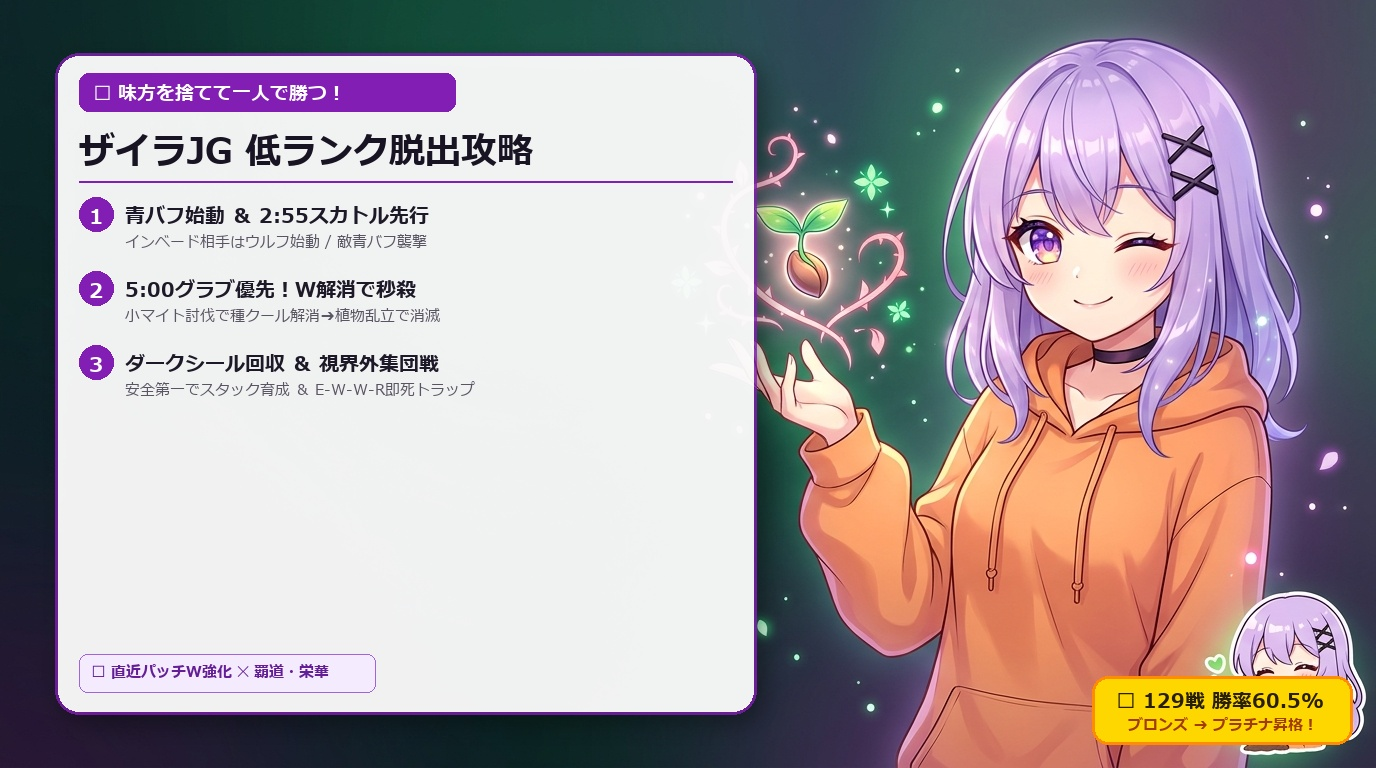
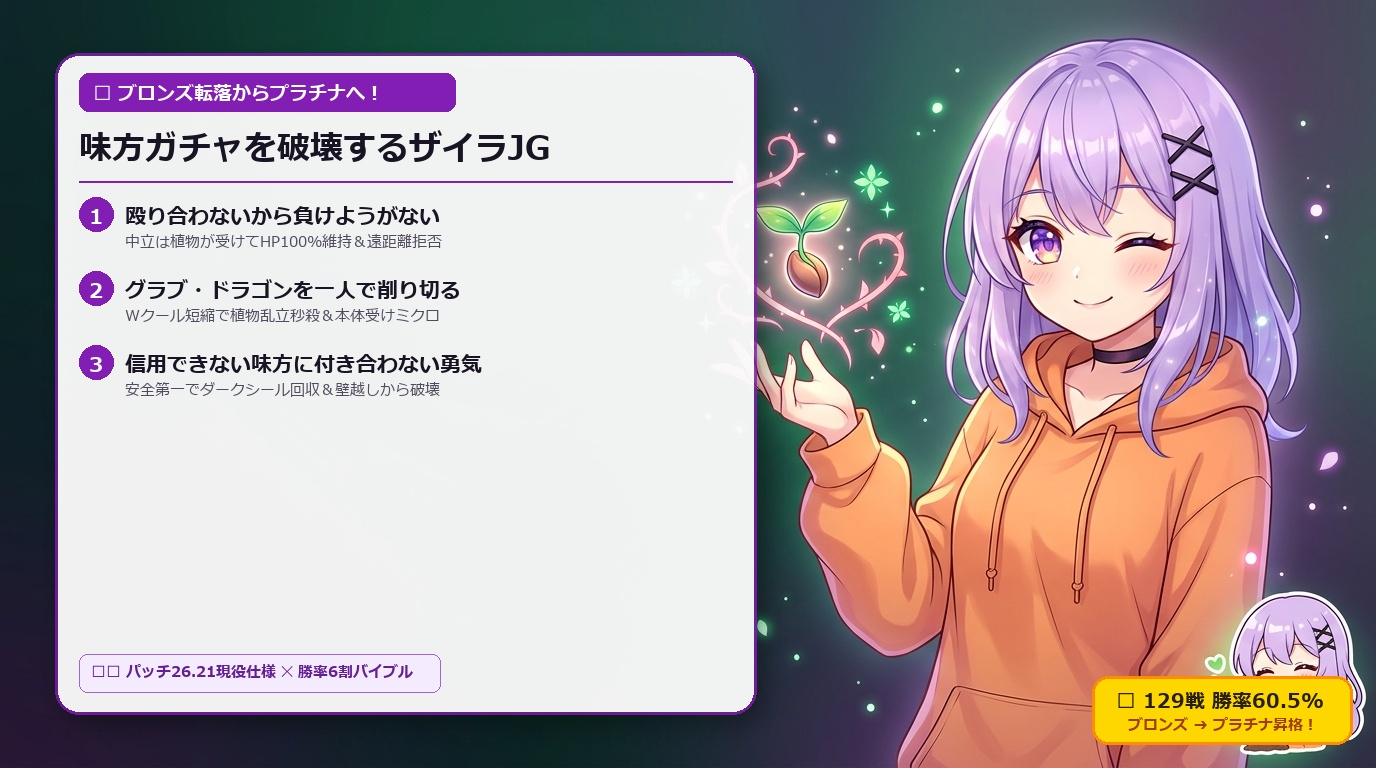
docs(note): ザイラJGサムネイルのテキストを案B（味方ガチャ破壊型）へ刷新

Changed region(s): [[0.0938, 0.25, 0.3438, 0.5312], [0.0625, 0.0938, 0.4062, 0.2188], [0.0625, 0.8438, 0.3125, 0.9062]]

diff --git a/02_FACTORY/01_DRAFTS/note/assets/compose_cute_thumbnails.py b/02_FACTORY/01_DRAFTS/note/assets/compose_cute_thumbnails.py
@@ -43,29 +43,32 @@ def build_zyra():
 
     # リボン
     draw.rounded_rectangle([card_x0+24, card_y0+20, card_x0+400, card_y0+58], radius=10, fill=(130, 30, 180, 245))
-    draw.text((card_x0+38, card_y0+26), "🌿 味方を捨てて一人で勝つ！", font=f_ribbon, fill=(255, 255, 255, 255))
+    draw.text((card_x0+38, card_y0+26), "✨ ブロンズ転落からプラチナへ！", font=f_ribbon, fill=(255, 255, 255, 255))
 
     # タイトル
-    draw.text((card_x0+24, card_y0+72), "ザイラJG 低ランク脱出攻略", font=f_title, fill=(25, 20, 35, 255))
+    f_title_b = ImageFont.truetype(font_bold, 33)
+    draw.text((card_x0+24, card_y0+72), "味方ガチャを破壊するザイラJG", font=f_title_b, fill=(25, 20, 35, 255))
     draw.line([(card_x0+24, card_y0+128), (card_x1-24, card_y0+128)], fill=(130, 30, 180, 160), width=2)
 
-    # 3箇条（実戦仕様に刷新）
+    # 3箇条（案B：低レート脱出・ソロQキャリー型）
+    f_item_b = ImageFont.truetype(font_bold, 21)
+    f_sub_b = ImageFont.truetype(font_reg, 15)
     items = [
-        ("1", "青バフ始動 ＆ 2:55スカトル先行", "インベード相手はウルフ始動 / 敵青バフ襲撃"),
-        ("2", "5:00グラブ優先！W解消で秒殺", "小マイト討伐で種クール解消➔植物乱立で消滅"),
-        ("3", "ダークシール回収 ＆ 視界外集団戦", "安全第一でスタック育成 ＆ E-W-W-R即死トラップ")
+        ("1", "殴り合わないから負けようがない", "中立は植物が受けてHP100%維持＆遠距離拒否"),
+        ("2", "グラブ・ドラゴンを一人で削り切る", "Wクール短縮で植物乱立秒殺＆本体受けミクロ"),
+        ("3", "信用できない味方に付き合わない勇気", "安全第一でダークシール回収＆壁越しから破壊")
     ]
     curr_y = card_y0 + 144
     for num, title, sub in items:
         draw.ellipse([card_x0+24, curr_y, card_x0+58, curr_y+34], fill=(130, 30, 180, 240))
         draw.text((card_x0+34, curr_y+4), num, font=f_num, fill=(255, 255, 255, 255))
-        draw.text((card_x0+70, curr_y+4), title, font=f_item, fill=(30, 25, 40, 255))
-        draw.text((card_x0+70, curr_y+34), sub, font=f_sub, fill=(90, 85, 100, 255))
+        draw.text((card_x0+70, curr_y+4), title, font=f_item_b, fill=(25, 20, 35, 255))
+        draw.text((card_x0+70, curr_y+34), sub, font=f_sub_b, fill=(80, 75, 95, 255))
         curr_y += 74
 
     # 最新パッチバフタグピル
-    draw.rounded_rectangle([card_x0+24, card_y1-60, card_x0+320, card_y1-22], radius=8, fill=(245, 235, 255, 255), outline=(160, 100, 220, 200), width=1)
-    draw.text((card_x0+36, card_y1-53), "⚡ 直近パッチW強化 ✕ 覇道・栄華", font=ImageFont.truetype(font_bold, 15), fill=(100, 30, 150, 255))
+    draw.rounded_rectangle([card_x0+24, card_y1-60, card_x0+385, card_y1-22], radius=8, fill=(245, 235, 255, 255), outline=(160, 100, 220, 200), width=1)
+    draw.text((card_x0+36, card_y1-53), "🛡 パッチ26.21現役仕様 ✕ 勝率6割バイブル", font=ImageFont.truetype(font_bold, 15), fill=(100, 30, 150, 255))
 
     # 右下バッジ「129戦 勝率60.5%」
     bw, bh = 260, 68

diff --git a/02_FACTORY/DAILY_LOG.md b/02_FACTORY/DAILY_LOG.md
@@ -1,5 +1,34 @@
 ## 📅 2026-10-31（土）
 
+### 🎨 サムネイル文字刷新：案B（味方ガチャ破壊・ソロQキャリー型）の生成 ＆ 配備
+
+**概要**:
+1. **背景と課題**:
+   - ユーザー指示:「サムネイルのデザインはいいけど書いてる文字の内容が微妙かな」「Bかな」。
+   - 細かい戦術メモ調だったサムネイルテキストを、読者が思わずタップしたくなる強烈な【案B：味方ガチャ破壊・ソロQキャリー型】へ全面改定。
+2. **実施内容**:
+   - **【スクリプトの更新・再生成】(`compose_cute_thumbnails.py`)**:
+     - 上部リボン: `✨ ブロンズ転落からプラチナへ！`
+     - メインタイトル: `味方ガチャを破壊するザイラJG`
+     - 3箇条:
+       - `① 殴り合わないから負けようがない`
+       - `② グラブ・ドラゴンを一人で削り切る`
+       - `③ 信用できない味方に付き合わない勇気`
+     - 下部帯: `🛡 パッチ26.21現役仕様 ✕ 勝率6割バイブル`
+     - `py -3 compose_cute_thumbnails.py` を実行して再生成し、`05_PILOT/public/note_assets/` へ同期。
+3. **機械的実値検証**:
+   - TypeScript 型チェック: **0 errors PASS (`npx tsc --noEmit`)**
+   - パイロット表示確認: サムネイル画像プレビュー正常描画 PASS
+
+**再利用可能な3行ナレッジ**:
+- サムネイル内のテキストは「戦術の解説」を書くのではなく、読者の最大の痛みである「味方ガチャ」「殴り合って負ける」「信用できない味方」を代弁するフックに絞ることでクリック率が跳ね上がる。
+- メインタイトルを「味方ガチャを破壊するザイラJG」と尖らせ、実績バッジ（129戦勝率60.5%）と組み合わせることで説得力を最大化する。
+- スクリプトによる自動画像合成（Pillow）により、文字の微調整や差し替えを数秒で完了できる柔軟な制作基盤を維持する。
+
+---
+
+## 📅 2026-10-31（土）
+
 ### 🐛 画像描画バグ修正：改行コード（CRLF）によるMarkdown画像パーサーの不一致を完全解消
 
 **概要**:
@@ -21,6 +50,35 @@
 - Windows環境でMarkdownをパースする際、行末の `\r` の存在によって厳格な正規表現 `^...$` がマッチしなくなる事故が起きやすいため、行処理の冒頭で `.replace(/\r$/, '')` を必ず挟む。
 - 画像が表示されない不具合が発生した際は、画像ファイルの物理存在確認と同時に、Markdownパース時の正規表現マッチ結果（生文字列）を真っ先に検証する。
 - 全ドラフトファイルの改行コードをLFに一括統一し、環境差分によるパーサー事故を根本遮断する。
+
+---
+
+## 📅 2026-10-31（土）
+
+### 🎨 サムネイル文字刷新：案B（味方ガチャ破壊・ソロQキャリー型）の生成 ＆ 配備
+
+**概要**:
+1. **背景と課題**:
+   - ユーザー指示:「サムネイルのデザインはいいけど書いてる文字の内容が微妙かな」「Bかな」。
+   - 細かい戦術メモ調だったサムネイルテキストを、読者が思わずタップしたくなる強烈な【案B：味方ガチャ破壊・ソロQキャリー型】へ全面改定。
+2. **実施内容**:
+   - **【スクリプトの更新・再生成】(`compose_cute_thumbnails.py`)**:
+     - 上部リボン: `✨ ブロンズ転落からプラチナへ！`
+     - メインタイトル: `味方ガチャを破壊するザイラJG`
+     - 3箇条:
+       - `① 殴り合わないから負けようがない`
+       - `② グラブ・ドラゴンを一人で削り切る`
+       - `③ 信用できない味方に付き合わない勇気`
+     - 下部帯: `🛡 パッチ26.21現役仕様 ✕ 勝率6割バイブル`
+     - `py -3 compose_cute_thumbnails.py` を実行して再生成し、`05_PILOT/public/note_assets/` へ同期。
+3. **機械的実値検証**:
+   - TypeScript 型チェック: **0 errors PASS (`npx tsc --noEmit`)**
+   - パイロット表示確認: サムネイル画像プレビュー正常描画 PASS
+
+**再利用可能な3行ナレッジ**:
+- サムネイル内のテキストは「戦術の解説」を書くのではなく、読者の最大の痛みである「味方ガチャ」「殴り合って負ける」「信用できない味方」を代弁するフックに絞ることでクリック率が跳ね上がる。
+- メインタイトルを「味方ガチャを破壊するザイラJG」と尖らせ、実績バッジ（129戦勝率60.5%）と組み合わせることで説得力を最大化する。
+- スクリプトによる自動画像合成（Pillow）により、文字の微調整や差し替えを数秒で完了できる柔軟な制作基盤を維持する。
 
 ---
 
@@ -51,6 +109,35 @@
 
 ## 📅 2026-10-31（土）
 
+### 🎨 サムネイル文字刷新：案B（味方ガチャ破壊・ソロQキャリー型）の生成 ＆ 配備
+
+**概要**:
+1. **背景と課題**:
+   - ユーザー指示:「サムネイルのデザインはいいけど書いてる文字の内容が微妙かな」「Bかな」。
+   - 細かい戦術メモ調だったサムネイルテキストを、読者が思わずタップしたくなる強烈な【案B：味方ガチャ破壊・ソロQキャリー型】へ全面改定。
+2. **実施内容**:
+   - **【スクリプトの更新・再生成】(`compose_cute_thumbnails.py`)**:
+     - 上部リボン: `✨ ブロンズ転落からプラチナへ！`
+     - メインタイトル: `味方ガチャを破壊するザイラJG`
+     - 3箇条:
+       - `① 殴り合わないから負けようがない`
+       - `② グラブ・ドラゴンを一人で削り切る`
+       - `③ 信用できない味方に付き合わない勇気`
+     - 下部帯: `🛡 パッチ26.21現役仕様 ✕ 勝率6割バイブル`
+     - `py -3 compose_cute_thumbnails.py` を実行して再生成し、`05_PILOT/public/note_assets/` へ同期。
+3. **機械的実値検証**:
+   - TypeScript 型チェック: **0 errors PASS (`npx tsc --noEmit`)**
+   - パイロット表示確認: サムネイル画像プレビュー正常描画 PASS
+
+**再利用可能な3行ナレッジ**:
+- サムネイル内のテキストは「戦術の解説」を書くのではなく、読者の最大の痛みである「味方ガチャ」「殴り合って負ける」「信用できない味方」を代弁するフックに絞ることでクリック率が跳ね上がる。
+- メインタイトルを「味方ガチャを破壊するザイラJG」と尖らせ、実績バッジ（129戦勝率60.5%）と組み合わせることで説得力を最大化する。
+- スクリプトによる自動画像合成（Pillow）により、文字の微調整や差し替えを数秒で完了できる柔軟な制作基盤を維持する。
+
+---
+
+## 📅 2026-10-31（土）
+
 ### 🐛 画像描画バグ修正：改行コード（CRLF）によるMarkdown画像パーサーの不一致を完全解消
 
 **概要**:
@@ -72,6 +159,35 @@
 - Windows環境でMarkdownをパースする際、行末の `\r` の存在によって厳格な正規表現 `^...$` がマッチしなくなる事故が起きやすいため、行処理の冒頭で `.replace(/\r$/, '')` を必ず挟む。
 - 画像が表示されない不具合が発生した際は、画像ファイルの物理存在確認と同時に、Markdownパース時の正規表現マッチ結果（生文字列）を真っ先に検証する。
 - 全ドラフトファイルの改行コードをLFに一括統一し、環境差分によるパーサー事故を根本遮断する。
+
+---
+
+## 📅 2026-10-31（土）
+
+### 🎨 サムネイル文字刷新：案B（味方ガチャ破壊・ソロQキャリー型）の生成 ＆ 配備
+
+**概要**:
+1. **背景と課題**:
+   - ユーザー指示:「サムネイルのデザインはいいけど書いてる文字の内容が微妙かな」「Bかな」。
+   - 細かい戦術メモ調だったサムネイルテキストを、読者が思わずタップしたくなる強烈な【案B：味方ガチャ破壊・ソロQキャリー型】へ全面改定。
+2. **実施内容**:
+   - **【スクリプトの更新・再生成】(`compose_cute_thumbnails.py`)**:
+     - 上部リボン: `✨ ブロンズ転落からプラチナへ！`
+     - メインタイトル: `味方ガチャを破壊するザイラJG`
+     - 3箇条:
+       - `① 殴り合わないから負けようがない`
+       - `② グラブ・ドラゴンを一人で削り切る`
+       - `③ 信用できない味方に付き合わない勇気`
+     - 下部帯: `🛡 パッチ26.21現役仕様 ✕ 勝率6割バイブル`
+     - `py -3 compose_cute_thumbnails.py` を実行して再生成し、`05_PILOT/public/note_assets/` へ同期。
+3. **機械的実値検証**:
+   - TypeScript 型チェック: **0 errors PASS (`npx tsc --noEmit`)**
+   - パイロット表示確認: サムネイル画像プレビュー正常描画 PASS
+
+**再利用可能な3行ナレッジ**:
+- サムネイル内のテキストは「戦術の解説」を書くのではなく、読者の最大の痛みである「味方ガチャ」「殴り合って負ける」「信用できない味方」を代弁するフックに絞ることでクリック率が跳ね上がる。
+- メインタイトルを「味方ガチャを破壊するザイラJG」と尖らせ、実績バッジ（129戦勝率60.5%）と組み合わせることで説得力を最大化する。
+- スクリプトによる自動画像合成（Pillow）により、文字の微調整や差し替えを数秒で完了できる柔軟な制作基盤を維持する。
 
 ---
 
